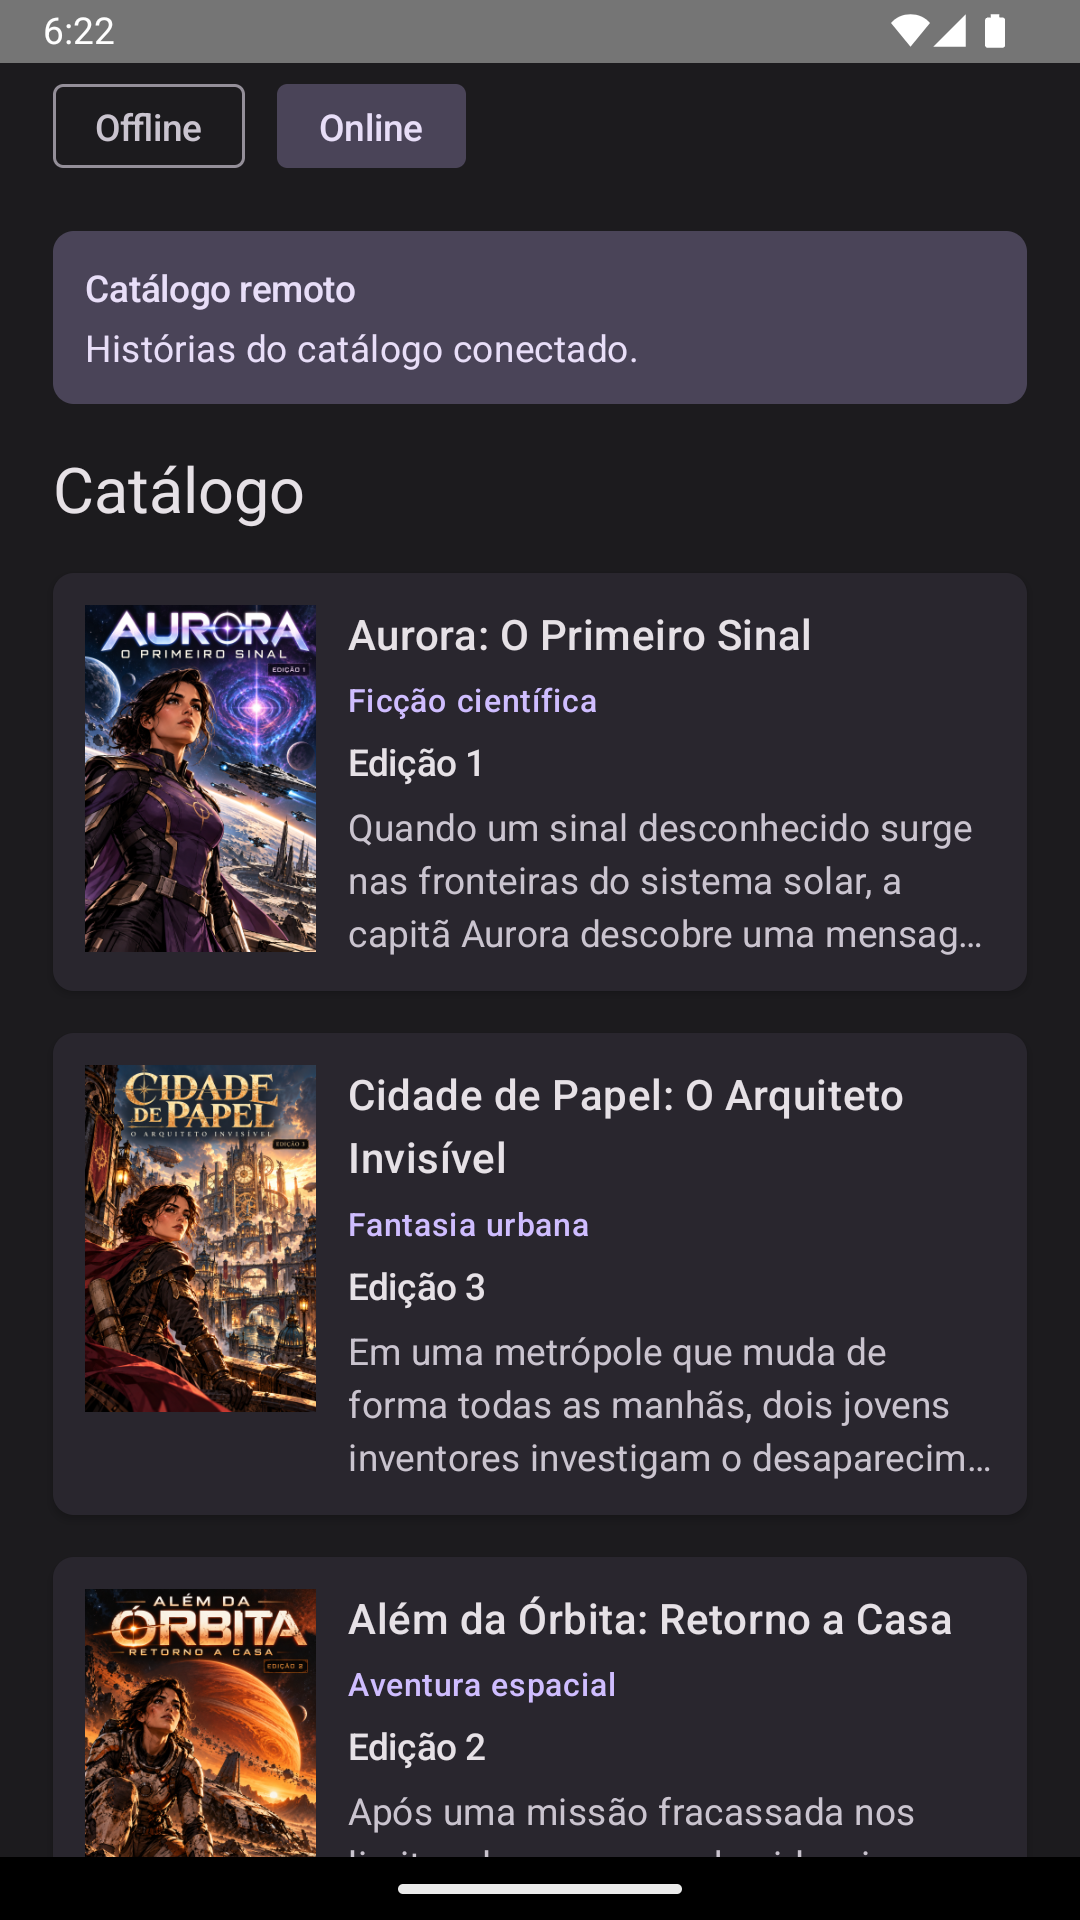
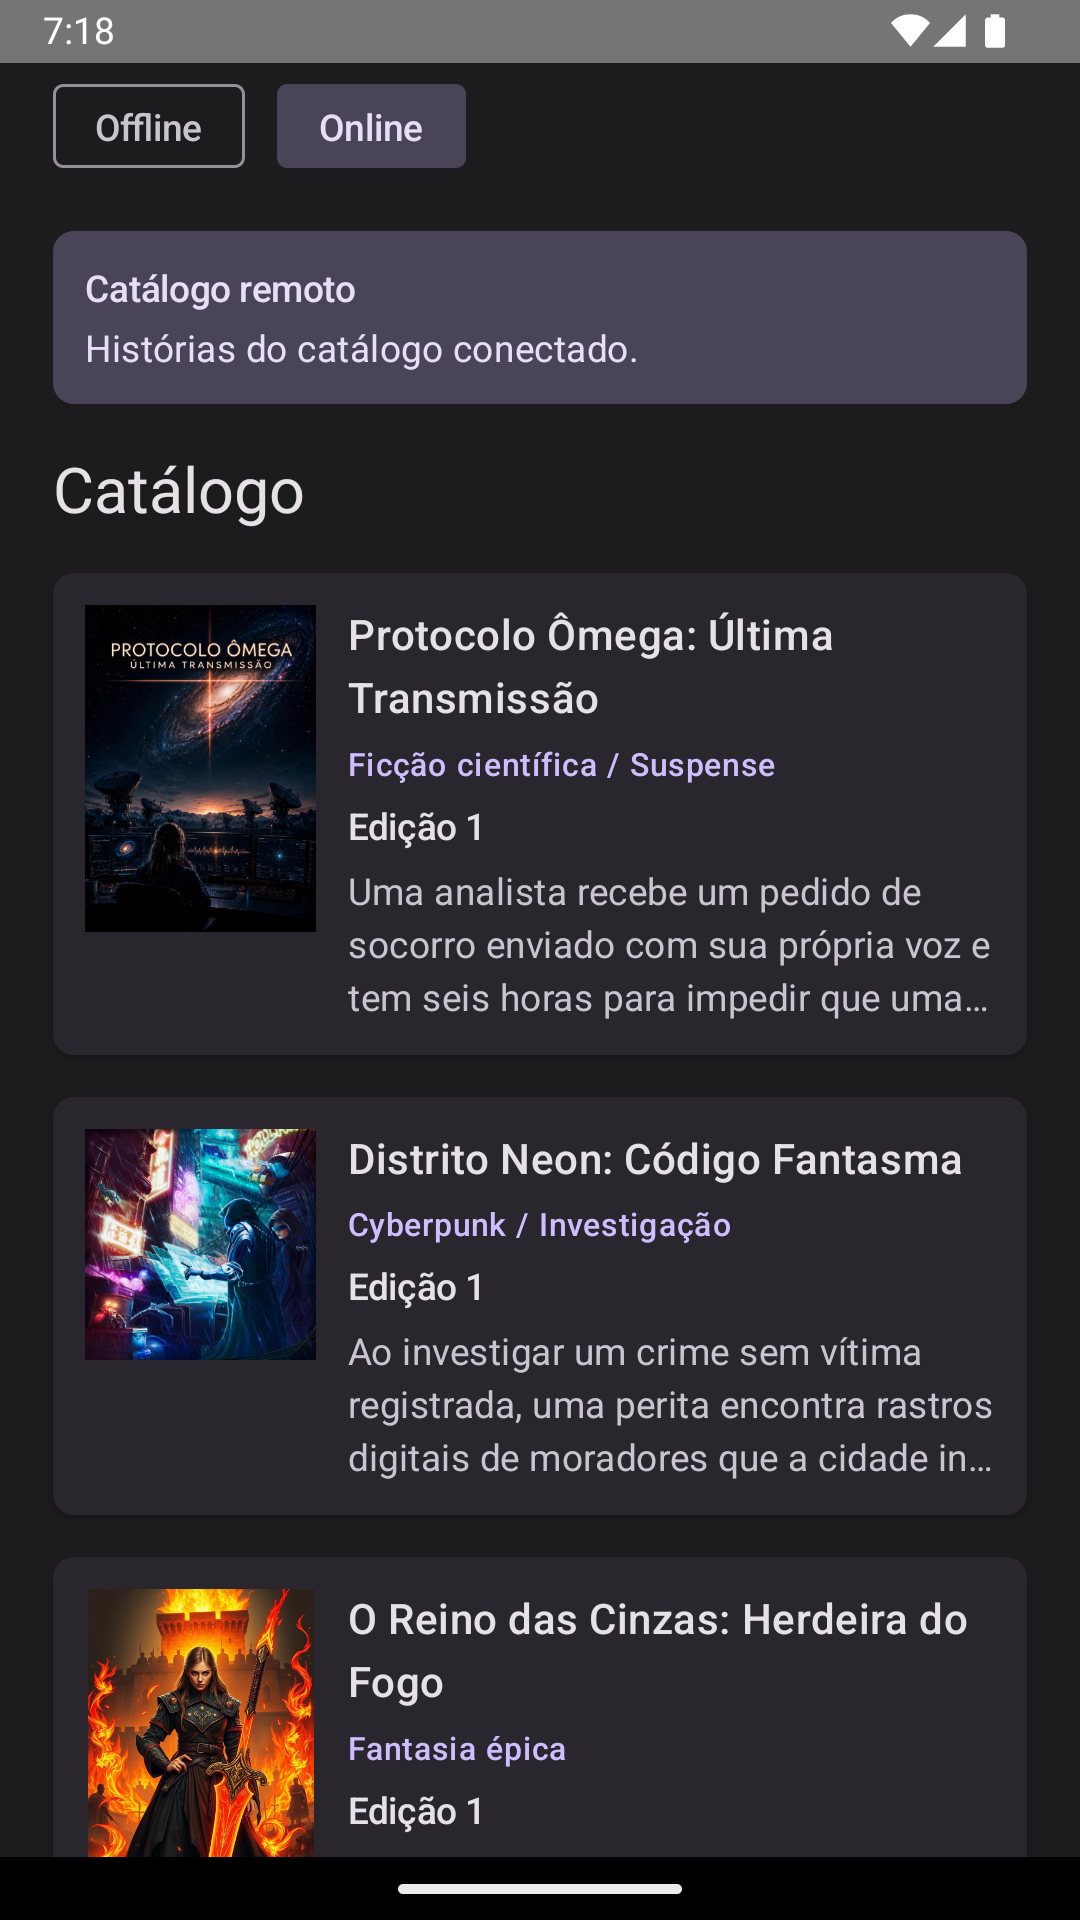
docs: update final offline and online showcase screenshots

diff --git a/README.md b/README.md
@@ -5,8 +5,9 @@ security boundaries and reproducible validation in senior engineering interviews
 It is a reviewable engineering exercise, not a production-readiness claim.
 
 The app starts with an **offline demo** containing six fictional comics and bundled cover
-images. Select Online to load the same catalog from Railway. Both modes use local artwork
-and require no credentials or Marvel calls. The existing
+images. Select Online to load nine comics from Railway, including three API-exclusive
+stories at the top with remote covers. The six shared comics retain their bundled artwork.
+Neither mode requires credentials or Marvel calls. The existing
 story fixtures are fictional Portuguese text; the interface is in Portuguese; this project guide is in English.
 
 ## What the app demonstrates
@@ -26,7 +27,8 @@ There are no search, favorites, login, persistence or paging features.
 
 Real screenshots captured by the maintainer in the Android Studio emulator on Windows.
 The interface is in Portuguese. The four original captures below show the Offline demo;
-the two newer comparison captures show Offline and Online with the same bundled covers.
+the two final comparison captures show the six-item Offline catalog and the nine-item
+Online catalog, including API-exclusive stories with remote covers.
 
 <table>
   <tr>
@@ -46,14 +48,16 @@ gallery layout. These captures do not establish behavior on every device or acce
 ### Offline vs. Online
 
 Both captures were taken on the same Android emulator at 1080 × 1920.
-**Offline** uses the bundled fictional catalog without a backend request;
-**Online** loads the same catalog from the public Railway API. Both modes
-intentionally use the same six bundled WebP covers.
+**Offline** uses six bundled fictional comics and local WebP covers, without a backend
+request. **Online** loads nine comics from the public Railway API: three exclusive
+stories appear first with remote covers, followed by the six shared comics with bundled
+WebP artwork. The exclusive stories are Protocolo Ômega: Última Transmissão,
+Distrito Neon: Código Fantasma and O Reino das Cinzas: Herdeira do Fogo.
 
 <table>
   <tr>
-    <td align="center"><img src="docs/screenshots/catalog-offline.png" width="280" alt="Offline selected, demonstration banner and comic catalog using bundled data"><br><b>Offline · Bundled catalog</b></td>
-    <td align="center"><img src="docs/screenshots/catalog-online.png" width="280" alt="Online selected, remote catalog banner and comics loaded from Railway"><br><b>Online · Railway API</b></td>
+    <td align="center"><img src="docs/screenshots/catalog-offline.png" width="280" alt="Offline selected, demonstration banner and six-comic bundled catalog"><br><b>Offline · Bundled catalog</b></td>
+    <td align="center"><img src="docs/screenshots/catalog-online.png" width="280" alt="Online selected, remote catalog banner and three API-exclusive stories at the top of the nine-comic Railway catalog"><br><b>Online · Railway API</b></td>
   </tr>
 </table>
 
@@ -161,7 +165,8 @@ SDK (or use an ignored local.properties). Check the JVM shown by the wrapper:
 
 `installDebug` requires a running emulator or authorized device (`adb devices`). Launch
 **Comics** after installation. It starts in **Offline**, with six bundled stories/covers.
-Tap **Online** to use the public Railway catalog; no extra configuration is needed.
+Tap **Online** to load nine comics from Railway, including three exclusive stories at
+the top with remote covers; no extra configuration is needed.
 The four original README screenshots retain their Offline provenance; the comparison
 section also includes a newer Online capture.
 
@@ -238,8 +243,10 @@ Room/DataStore/Paging and extra feature modules are deliberately absent.
 ## Offline and Online catalog
 
 The app starts in **Offline**, using `DemoComicsRepository` without a network request.
-Select **Online** on the catalog to load `RemoteComicsRepository` from the deployed
-[Railway API](https://comics-showcase-api-production.up.railway.app/api/comics).
+Select **Online** to load nine comics through `RemoteComicsRepository` from the deployed
+[Railway API](https://comics-showcase-api-production.up.railway.app/api/comics). Three
+API-exclusive stories appear first with remote covers; the six embedded stories follow
+and retain their matching bundled WebP artwork.
 Backend source: [jSantini/comics-showcase-api](https://github.com/jSantini/comics-showcase-api).
 
 The public default `COMICS_BASE_URL` is
@@ -271,12 +278,16 @@ present, must be positive. Missing synopses fall back to description; missing me
 stays null. DTO, domain and UI models remain separate. Invalid JSON, missing required
 fields and duplicate IDs become recoverable errors.
 
-The checked-in `data/src/test/resources/railway-comics.json` was captured from production
-on 2026-11-03. It contains IDs 1–6, issues 1/3/2/5 for IDs 1–4, **volume 1** for ID 5,
-and issue 1 for ID 6. All metadata and story text match the embedded catalog. The API
-supplies cover keys rather than image URLs: the six matching bundled WebP files are
-used in both modes. Unknown keys use the existing safe image/placeholder path. Legacy
-optional `thumbnail: {path, extension}` remains supported with HTTPS validation.
+The checked-in `data/src/test/resources/railway-comics.json` is the earlier six-item
+production snapshot captured on 2026-11-03 and retained for deterministic tests. It
+contains IDs 1–6, issues 1/3/2/5 for IDs 1–4, **volume 1** for ID 5, and issue 1 for
+ID 6. Its metadata and story text match the embedded catalog; it is not a snapshot of
+the current nine-item live catalog.
+
+The live API now returns exclusive IDs 7, 8 and 9 first, followed by the six shared
+comics. The shared entries supply cover keys for the local WebPs. The exclusive entries
+omit coverKey and provide HTTPS `thumbnail: {path, extension}` values for remote covers.
+Unknown/invalid covers retain the existing secure image/placeholder fallback.
 
 Automated network tests use MockWebServer and this local fixture; CI does not contact
 Railway. Online use requires connectivity and backend availability. The four original screenshots

diff --git a/docs/screenshots/README.md b/docs/screenshots/README.md
@@ -1,15 +1,19 @@
 # Real Android screenshot capture
 
-Status: **all four real screenshots supplied** by the maintainer from the Android Studio
+Status: **six real screenshots supplied** by the maintainer from the Android Studio
 emulator on Windows and integrated into the main README. Each PNG is 1080 × 1920 (9:16).
-They show the light/dark catalog, Aurora details in dark theme and Sentinela Neon details
-in light theme (including Edição 5). The images are readable at their native resolution;
+The four original captures show the light/dark Offline catalog, Aurora details in dark
+theme and Sentinela Neon details in light theme (including Edição 5). The final comparison
+pair shows Offline selected with the six bundled comics and Online selected with the
+three API-exclusive stories at the top of the nine-comic Railway catalog. The images
+are readable at their native resolution;
 no private content, keyboard, dialog or development overlay was observed in visual inspection.
 Ordinary Android status/navigation bars are preserved.
 
 The two supplied detail filenames were reversed. They were swapped to match their actual
-content without re-encoding, cropping or changing any bytes within either capture. Catalog
-files are unchanged. No screenshot was generated, edited or captured in this cloud workspace.
+content without re-encoding, cropping or changing any bytes within either capture. The four
+original PNGs remain unchanged. The comparison pair uses the owner's final supplied PNGs
+without cropping, resizing or recompression. No screenshot was generated or retouched.
 The maintainer reports real emulator provenance; PNG dimensions alone do not prove provenance.
 Device model/API level and the exact installed capture build were not independently verified.
 
@@ -17,7 +21,23 @@ The following instructions remain a reproduction guide. For a matching refresh, 
 Aurora in dark mode; a future light-mode Aurora capture is optional and must be labeled
 accordingly. Compose previews and generated cover artwork are not screenshot substitutes.
 
-## Capture the reviewed application on Windows
+## Final Offline/Online comparison
+
+- `catalog-offline.png`: Offline selected, six bundled comics and local WebP covers;
+  no backend request is required.
+- `catalog-online.png`: Online selected, nine Railway comics. Protocolo Ômega,
+  Distrito Neon and O Reino das Cinzas appear first with remote covers; the six shared
+  comics follow with their bundled WebPs.
+
+Use a current build with the public Railway URL configured, such as
+`.\gradlew.bat :app:installDebug` without an empty COMICS_BASE_URL override. Select Offline
+and capture the catalog; then select Online, wait for the catalog and remote covers to
+finish loading, and capture it. Preserve native PNG bytes and 1080 × 1920 dimensions.
+The comparison in the README displays each image at 280px width. Screenshot content
+shows the selected source and rendered data; it does not independently prove network
+transport. The historical six-entry test fixture intentionally remains unchanged.
+
+## Reproduce the original four Offline captures on Windows
 
 Use Android Studio's working emulator and this repository's `feature/offline-comics-details`
 branch. The reviewed application source is commit
